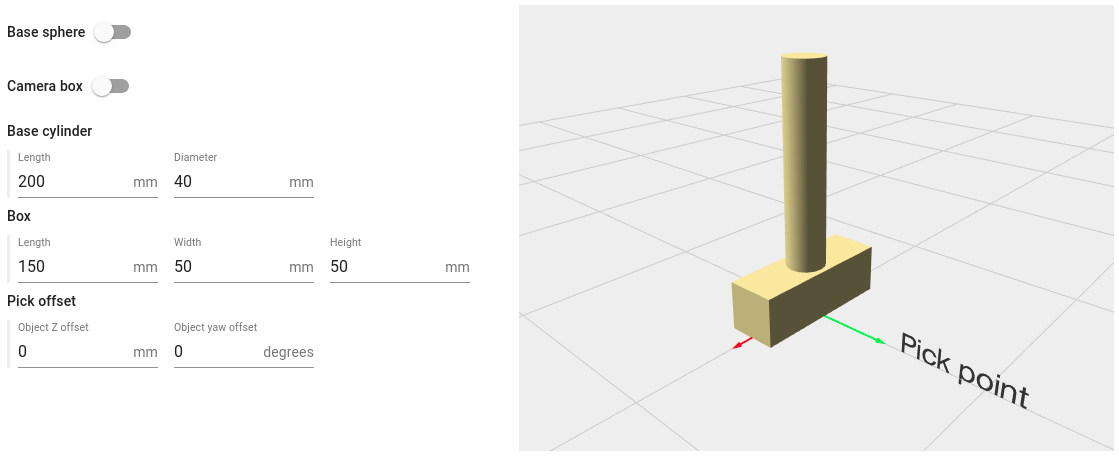
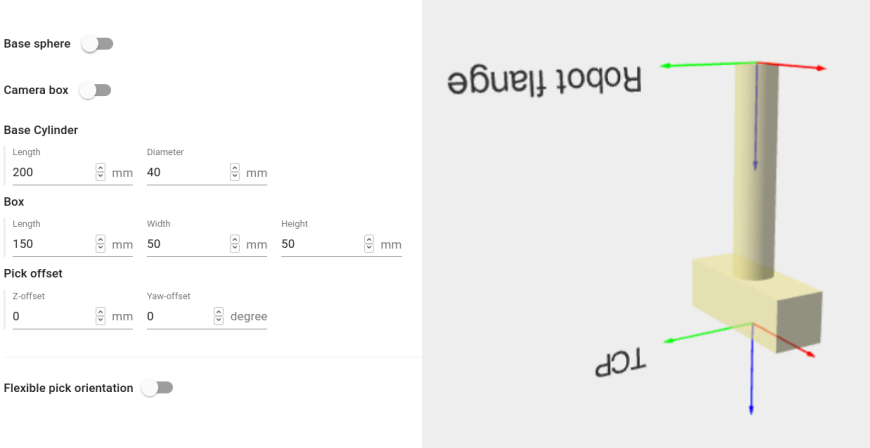
Update tool model documentation for 2.4

diff --git a/docs/documentation/picking/flexible-pick-orientation.rst b/docs/documentation/picking/flexible-pick-orientation.rst
@@ -1,45 +1,81 @@
 .. _flexible-pick-orientation:
 
-Flexible pick orientation
--------------------------
+Tool models and flexible pick orientation
+-----------------------------------------
 
-In practice, many applications can tolerate some variation with respect to the nominal pick orientation without compromising pick success.
-Taking advantage of this can increase the likelihood that individual pick points are pickable by the robot.
-This flexibility is typically due to shape symmetries (e.g. a circular object, below left), robot tool compliance (e.g. suction cup bellows, below center), or application-specific considerations (e.g. clearance between the tool and object at a specific pickpoint, below right). It is represented in Pickit by a pick point's :guilabel:`Flexible pick orientation`.
+In practice, many tools can tolerate some variation with respect to the nominal pick orientation without compromising pick success.
+Taking advantage of this can increase the likelihood that a pick point is pickable by the robot.
+This variation is typically due to:
+
+- **Robot tool compliance**, such as a passive hinge (below left), or flexible suction cup bellows (below center).
+- **Application-specific constraints**, like the clearance between tool and object at the pick point (below right).
 
 .. image:: /assets/images/documentation/picking/flexibility_real_examples.png
   :scale: 60%
   :align: center
 
-Pickit allows the pick point orientation to tilt around the X and/or Y axes, as well as to rotate around the Z-axis (below, left).
-Flexibility around each axis is represented in the 3D model view as a circular sector as wide as the specified interval size (below, right).
+This article describes the features provided by Pickit to model such allowed variations.
+
+.. _flexible-orientation-at-pick-point:
+
+Flexible orientation at the pick point
+~~~~~~~~~~~~~~~~~~~~~~~~~~~~~~~~~~~~~~
+
+Most tool models allow setting the optional :guilabel:`Flexible pick orientation`, which specifies the orientation flexibility allowed at the :ref:`pick point <pick-points-teach>`.
+
+Pickit allows the pick orientation to tilt around the X and/or Y axes, as well as to rotating around the tool Z-axis (below left).
+Flexibility around each axis is represented in the 3D views as a circular sector as wide as the specified interval size (below right).
 
 .. image:: /assets/images/documentation/picking/flexible_pick_orientation_ui_with_3d.png
-  :scale: 80%
+  :scale: 70%
   :align: center
 
-The following three examples show, from left to right:
+The following examples show, from left to right:
 
 - A picture of the real application.
-- The 3D visualization of the :ref:`object model <teach>`, :ref:`robot tool model <robot-tool-model>`, pick point and flexible pick orientation.
+- The 3D visualization of the :ref:`object model <teach>`, :ref:`robot tool model <robot-tool-model>`, pick point, and flexible pick orientation.
 - The flexible pick orientation specification.
 
 .. image:: /assets/images/documentation/picking/flexibility_real_examples_full.png
   :align: center
 
-The image below highlights the beneficial effect of flexible pick orientations on increasing the likelihood of finding pickable objects.
-Without it, the shown objects would be labeled as unpickable by Pickit due to :ref:`collisions <collision-prevention>` between the tool and the bin or other objects.
-The :ref:`example applications <pick-points-teach-examples>` section describes further scenarios where flexible pick orientations can be used.
+Note that it's possible to instruct Pickit whether one prefers the tool to use the tilt flexibility more or not.
 
-.. image:: /assets/images/documentation/picking/flexible_pick_orientation_comparison.png
-  :scale: 55%
-  :align: center
+When **Prefer picks with less tilt** is enabled, the tilting flexibility will *only* be used to make a point pickable, such as to :ref:`avoid a collision <collision-prevention>` between the robot tool and the bin or other objects.
+In other words, Pickit will prefer the pick point specified by the user, and in case it's not pickable, it will select one that is as close as possible to it.
+This is the default setting.
+Prefer it when tilting the tool can decrease the likelihood of pick success. For instance, some suction cups might have more difficulty establishing vacuum when highly tilted.
+
+On the other hand, when **Prefer picks with less tilt** is disabled, the tilting flexibility will be used to align as much as possible with the preferred pick orientation, which typically points up.
+The real application pictures shown above correspond to this situation.
+Prefer this setting when you want to minimize tilting of the robot flange.
 
 .. note::
-  Apart from the robot tool model :ref:`flexible pick orientation <flexible-pick-orientation>`, :ref:`multiple pick points <multiple-pick-points>` and pick point :ref:`symmetry axes <pick-point-symmetry-axis>` are other strategies for increasing the likelihood of an object being pickable.
+  Apart from the :ref:`flexible pick orientation <flexible-pick-orientation>` of the robot tool model, :ref:`multiple pick points <multiple-pick-points>` and pick point :ref:`symmetry axes <pick-point-symmetry-axis>` are other strategies for increasing the likelihood of an object being pickable.
 
 .. tip::
-  Flexible pick orientations, in combination with the :ref:`preferred pick point orientation <preferred-orientation-teach>` can be used to favor picks that are easier and faster to reach by the robot (e.g. less wrist motion, lower occurrence of unreachable points).
+  Flexible pick orientations, in combination with the :ref:`preferred pick point orientation <preferred-orientation>` can be used to favor picks that are easier and faster to reach by the robot (e.g. less wrist motion, lower occurrence of unreachable points).
 
-In some applications, you may want to drop-off the object in the same location independently of how it was picked (which pick point and how orientation flexibility was used).
-:ref:`This article <smart-place-pick-point-offset>` shows two different examples where this goal is achieved.
+.. _passive-hinge-tool:
+
+Passive hinge
+~~~~~~~~~~~~~
+
+A tool with a passive hinge is well suited for picking tilted objects from deep bins, while tilting the robot flange as little as possible.
+Minimizing robot flange tilt is associated with the following advantages:
+
+- Decrease the risk of :ref:`robot tool collisions <collision-prevention>`.
+- Reduce the required robot workspace, as pick points are more likely to be reachable by the robot.
+- Potentially faster robot motions, which can translate into shorter cycle times.
+
+.. note::
+  Pickit will launch in Q1 2021 grippers with a passive hinge, among other features.
+  They will seamlessly integrate into the Pickit product.
+
+  Currently, it is possible to have a preview of the tool model by exploring the example snapshots in the ``examples/billets`` folder.
+
+.. image:: /assets/images/documentation/picking/tool_model_passive_hinge_collision.png
+  :align: center
+
+.. image:: /assets/images/documentation/picking/tool_model_passive_hinge_workspace.png
+  :align: center

diff --git a/docs/documentation/picking/robot-tool-model.rst b/docs/documentation/picking/robot-tool-model.rst
@@ -24,60 +24,22 @@ If your application requires it, it's possible to create multiple tool models, a
 A common example would be a two-finger gripper used with different opening distances depending on the selected pick point.
 
 .. image:: /assets/images/documentation/picking/different_gripper_openings.png
+  :scale: 60%
   :align: center
 
-When multiple tools exist, the default tool represents the tool that will be selected by default when a new :ref:`pick point <pick-points-teach>` is created.
+When multiple tools exist, the default tool represents the tool that will be selected when a new :ref:`pick point <pick-points-teach>` is created.
 
 .. image:: /assets/images/documentation/picking/multiple_tools.png
   :align: center
 
-
-TODO: Flexible pick orientation
--------------------------------
-
-.. toctree::
-    :hidden:
-    :maxdepth: 1
-    :glob:
-
-    flexible-pick-orientation
-
-TODO: :ref:`flexible pick orientation <flexible-pick-orientation>`.
-
-.. _cad-tool:
-
-CAD-based tool model
---------------------
-
-If you have a CAD file of the tool, you can directly upload it to Pickit.
-This is the most convenient way to get your robot tool model into Pickit, as you only need to specify:
-
-- The CAD file to upload.
-- The units in which the CAD geometry is represented.
-- The relative transform of the tool with respect to the :ref:`pick point <pick-points>`.
-
-.. image:: /assets/images/documentation/picking/tool_model_cad_ui.png
-  :align: center
-
-.. note::
-  Pickit only supports the **stl** format for tool models. This format is widely supported and most CAD design editors can export CAD into **stl** format. There are also free online converters available on the Internet which can help you in doing so.
-
-.. tip::
-  To speed up :ref:`collision checks <collision-prevention>` between the tool model and the bin or other objects, follow these recommendations when preparing your CAD file:
-
-  - Remove all non-visible geometry such as inner walls. They slow down collision checks without adding any value.
-  - Reduce the complexity of the CAD geometry. A typical model should not exceed a few thousand vertices.
-
-.. _generic-tool:
+.. _generic-tool-model:
 
 Generic tool model
 ------------------
 
-Pickit provides three general purpose models that closely resemble commonly used tools.
-Currently, three different models are supported:
+Pickit provides the following general purpose models that closely resemble commonly used tools:
 
     .. image:: /assets/images/documentation/picking/tool_models.png
-      :scale: 50%
       :align: center
 
 It is possible to modify a tool's characteristic dimensions, as well as adapt its relative distance and orientation with respect to an object’s pick point.
@@ -91,8 +53,58 @@ The image below shows the tool model editor for the **Box-shaped tool**.
   If the model is too large (too conservative), objects will be labeled as unpickable even if they could be picked without collision.
   Conversely, if the model is smaller than the actual tool, unpickable objects might be labeled as pickable and the robot will collide when picking them.
 
+.. _cad-tool:
+
+CAD-based tool model
+--------------------
+
+If you have a CAD file of the tool, you can directly upload it to Pickit.
+This is a very convenient way to get your robot tool model into Pickit, as you only need to specify:
+
+- The CAD file to upload.
+- The units in which the CAD geometry is represented.
+- The location of the tool centerpoint (TCP) with respect to the flange.
+- Optional: An offset to apply to the CAD model.
+  If the model origin coincides with the flange frame, it doesn't need to be specified.
+- Optional: The mesh clipping offset, which cutts off the bottom-most part of the CAD model by a user-defined amount.
+  This is useful for not including parts of the CAD model close to the TCP in :ref:`collision checks <collision-prevention>`.
+
+.. image:: /assets/images/documentation/picking/tool_model_cad_ui.png
+  :align: center
+
+.. note::
+  Pickit only supports the **stl** format for tool models. This format is widely supported and most CAD design editors can export CAD into **stl** format. There are also free online converters available on the Internet which can help you in doing so.
+
+.. tip::
+  To speed up :ref:`collision checks <collision-prevention>` between the tool model and the bin or other objects, follow these recommendations when preparing your CAD file:
+
+  - Remove all non-visible geometry such as inner walls. They slow down collision checks without adding any value.
+  - Reduce the complexity of the CAD geometry. A typical model should not exceed a few thousand faces.
+
+.. _generic-tool:
+
 Optional tool configuration
----------------------------
+===========================
+
+Flexible pick orientation
+-------------------------
+
+.. toctree::
+    :hidden:
+    :maxdepth: 1
+    :glob:
+
+    flexible-pick-orientation
+
+In practice, many tools can tolerate some variation with respect to the nominal pick orientation without compromising pick success.
+Pickit represents these variations as a tool's :ref:`flexible pick orientation <flexible-pick-orientation>`, and taking advantage of them can increase the likelihood that an object is pickable.
+
+.. image:: /assets/images/documentation/picking/flexibility_real_examples.png
+  :scale: 60%
+  :align: center
+
+Additional collision geometries
+-------------------------------
 
 The robot tool model can also include additional optional geometries:
 
